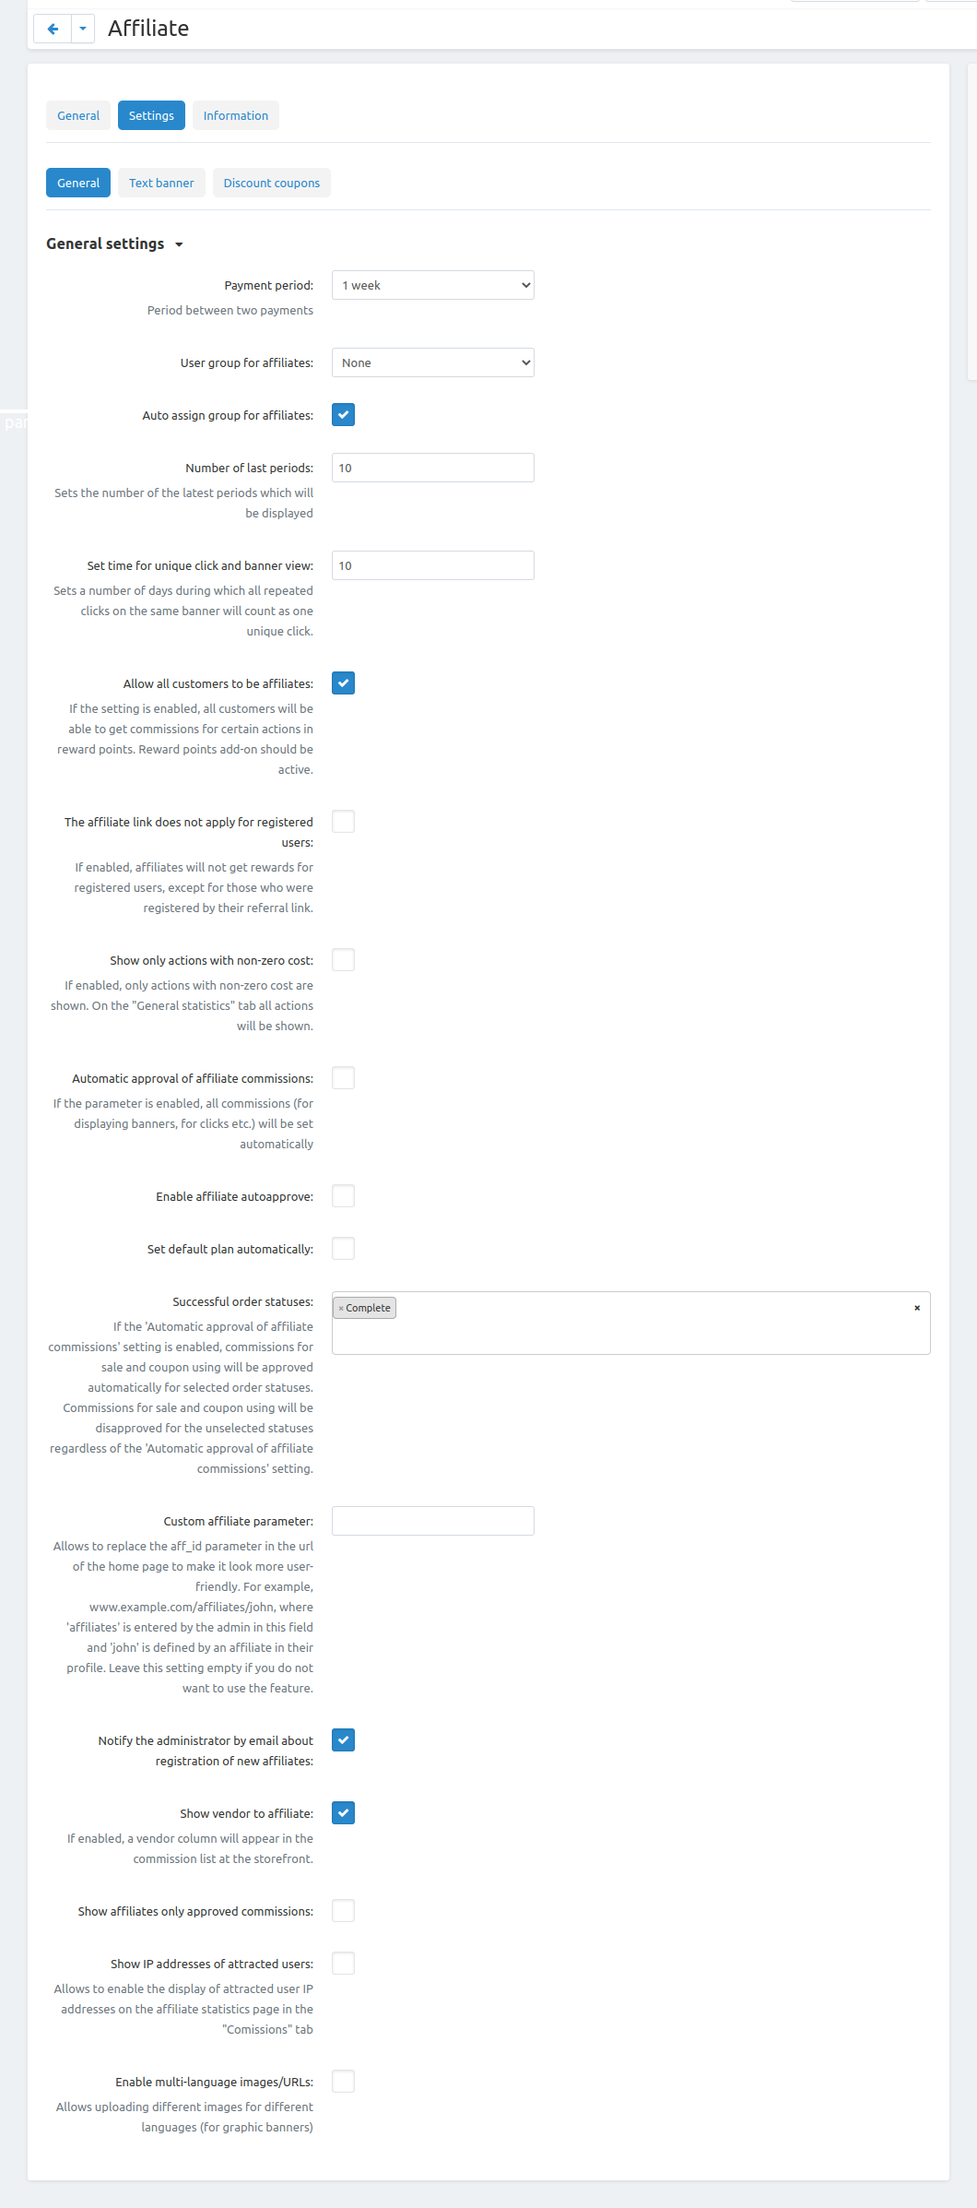
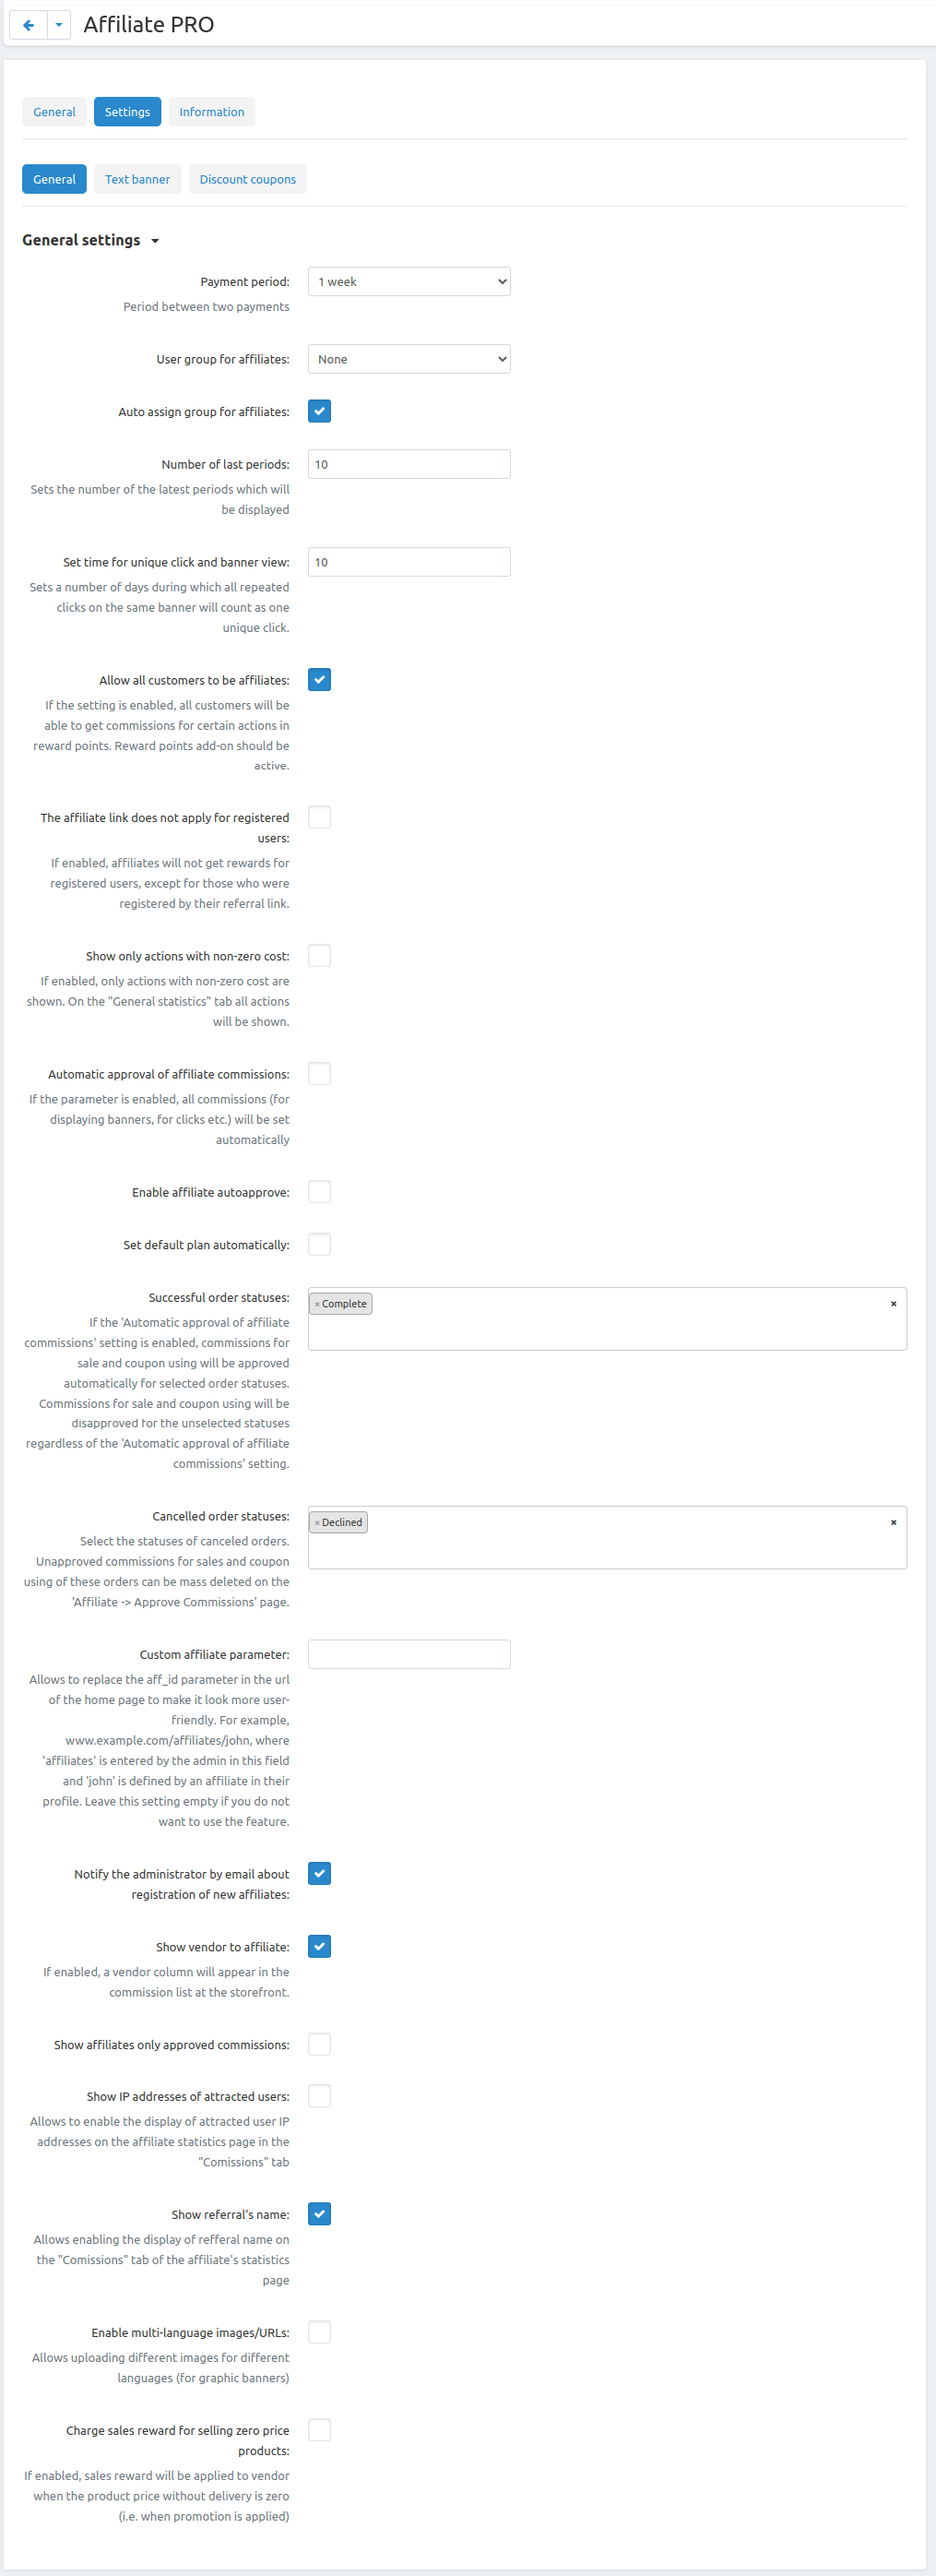
CS-Cart Add-ons - Update affiliate&referral add-on doc

Changed region(s): [[0.0305, 0.0, 0.4276, 0.9891]]

diff --git a/en/addons/affiliate/index.rst b/en/addons/affiliate/index.rst
@@ -161,6 +161,11 @@ Available settings
 
     * **Successful order statuses** — if the 'Automatic approval of affiliate commissions' setting is enabled, commissions for sale and coupon using will be approved automatically for selected order statuses. Commissions for sale and coupon using will be disapproved for the unselected statuses regardless of the 'Automatic approval of affiliate commissions' setting.
 
+    * **Сanceled order statuses** — Select the statuses of canceled orders. Canceled commissions for sales and coupon using of these orders can be mass deleted on the 'Affiliate->Approve Commissions' page. All canceled commissions for orders in the selected statuses will be immediately removed from the commissions list for approve.
+
+    .. fancybox:: img/aff_mass_delete_commisions.png
+        :alt: Affiliate. Mass delete canceled commissions
+
     * **Custom affiliate parameter** — allows to replace the aff_id parameter in the url of the home page to make it look more user-friendly. For example, *www.example.com/affiliates/john*, where *affiliates* is entered by the admin in this field and *john* is defined by an affiliate in their profile. Leave this setting empty if you do not want to use the feature. For more details, see the `What the affiliate will see`_ section.
 
     * **Show referral's name** — allows to hide the names of attracted customers and partners on the partner's statistics page in the "Comissions" tab. If the setting is disabled, the names of attracted customers and partners will be displayed in the format C****r C****r:
